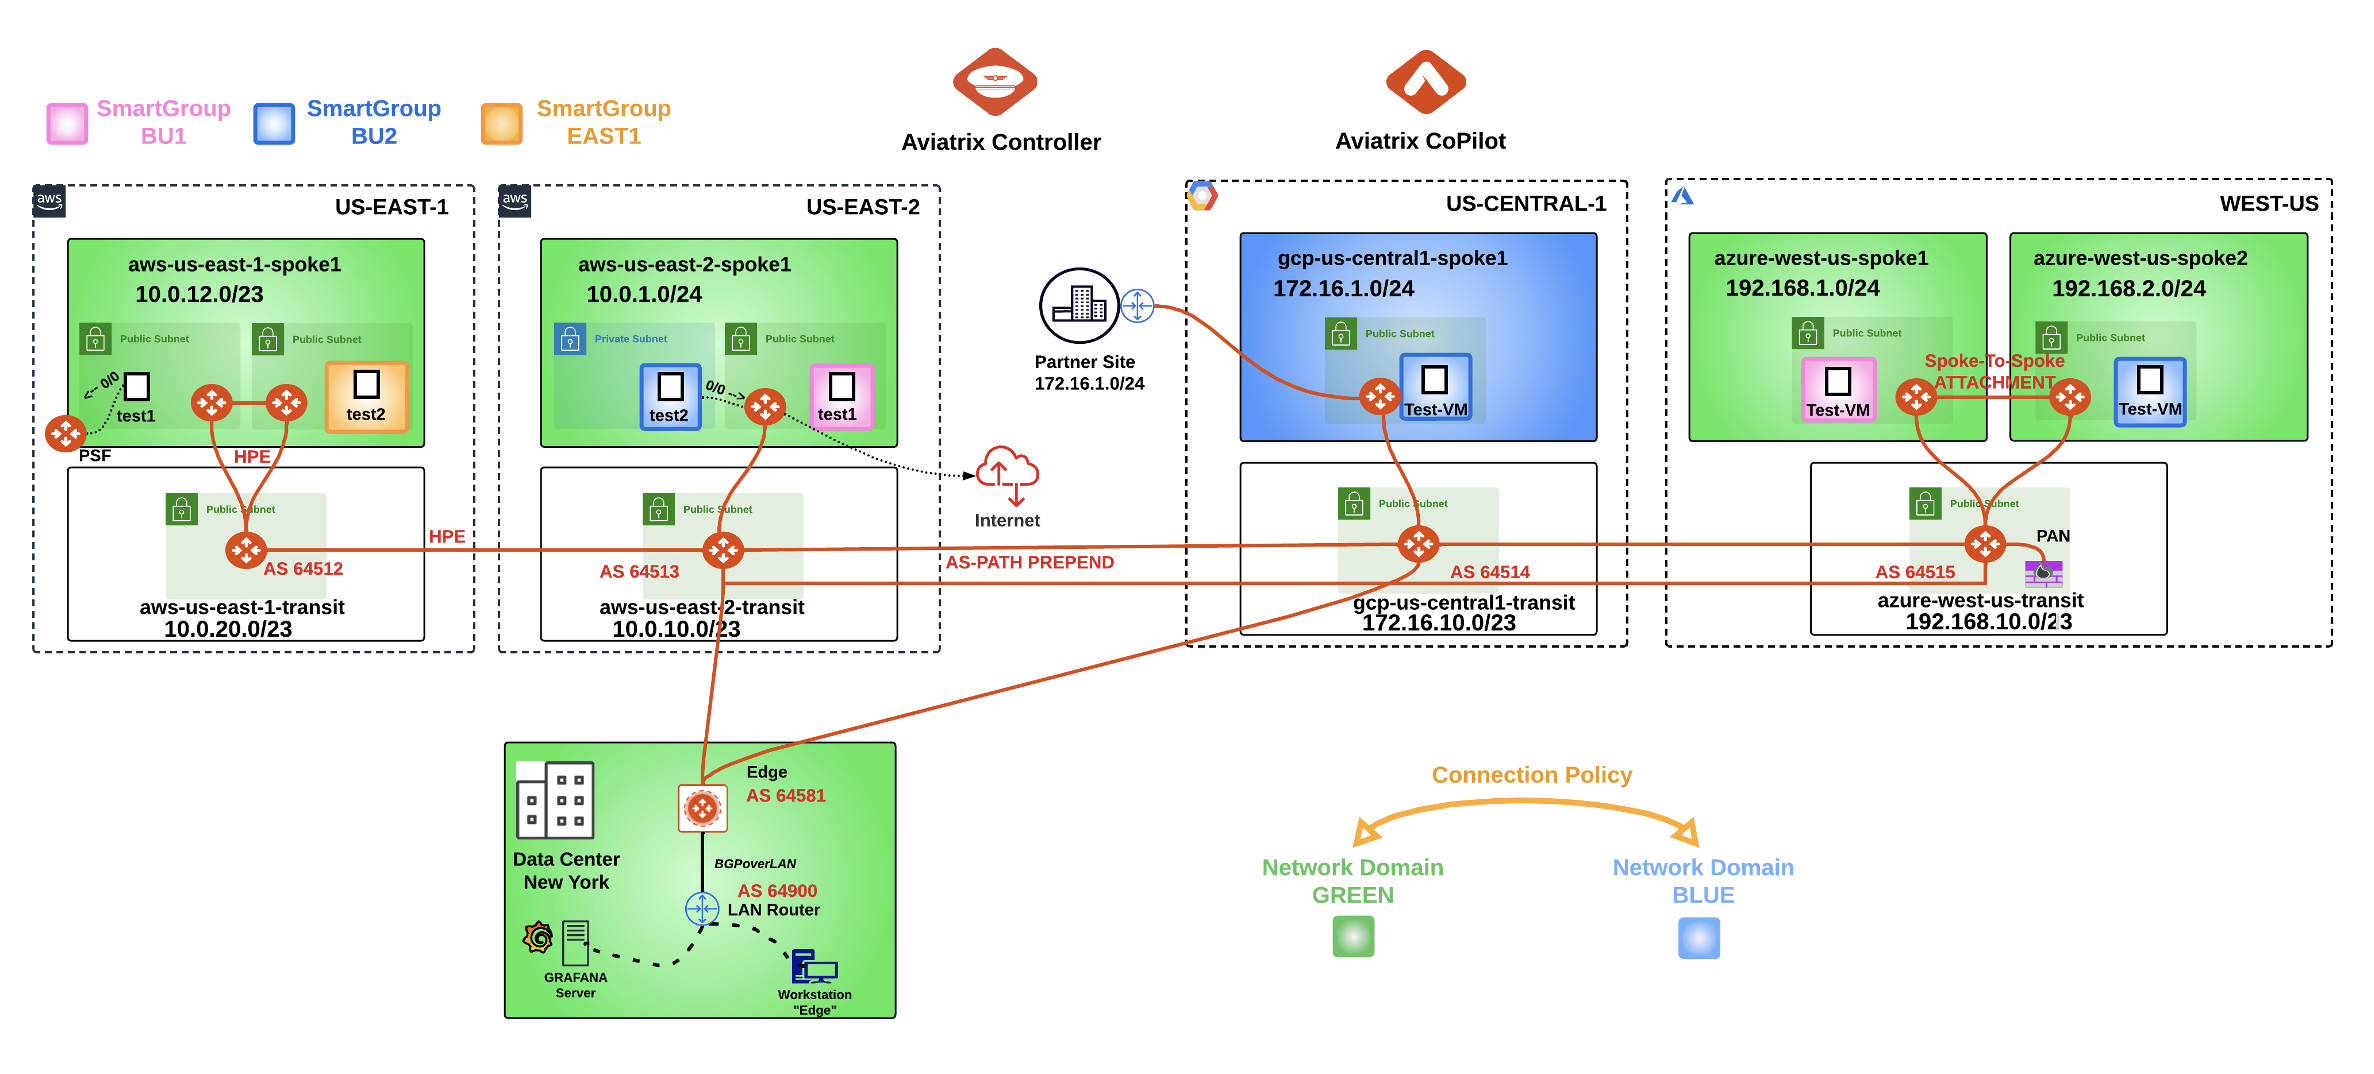
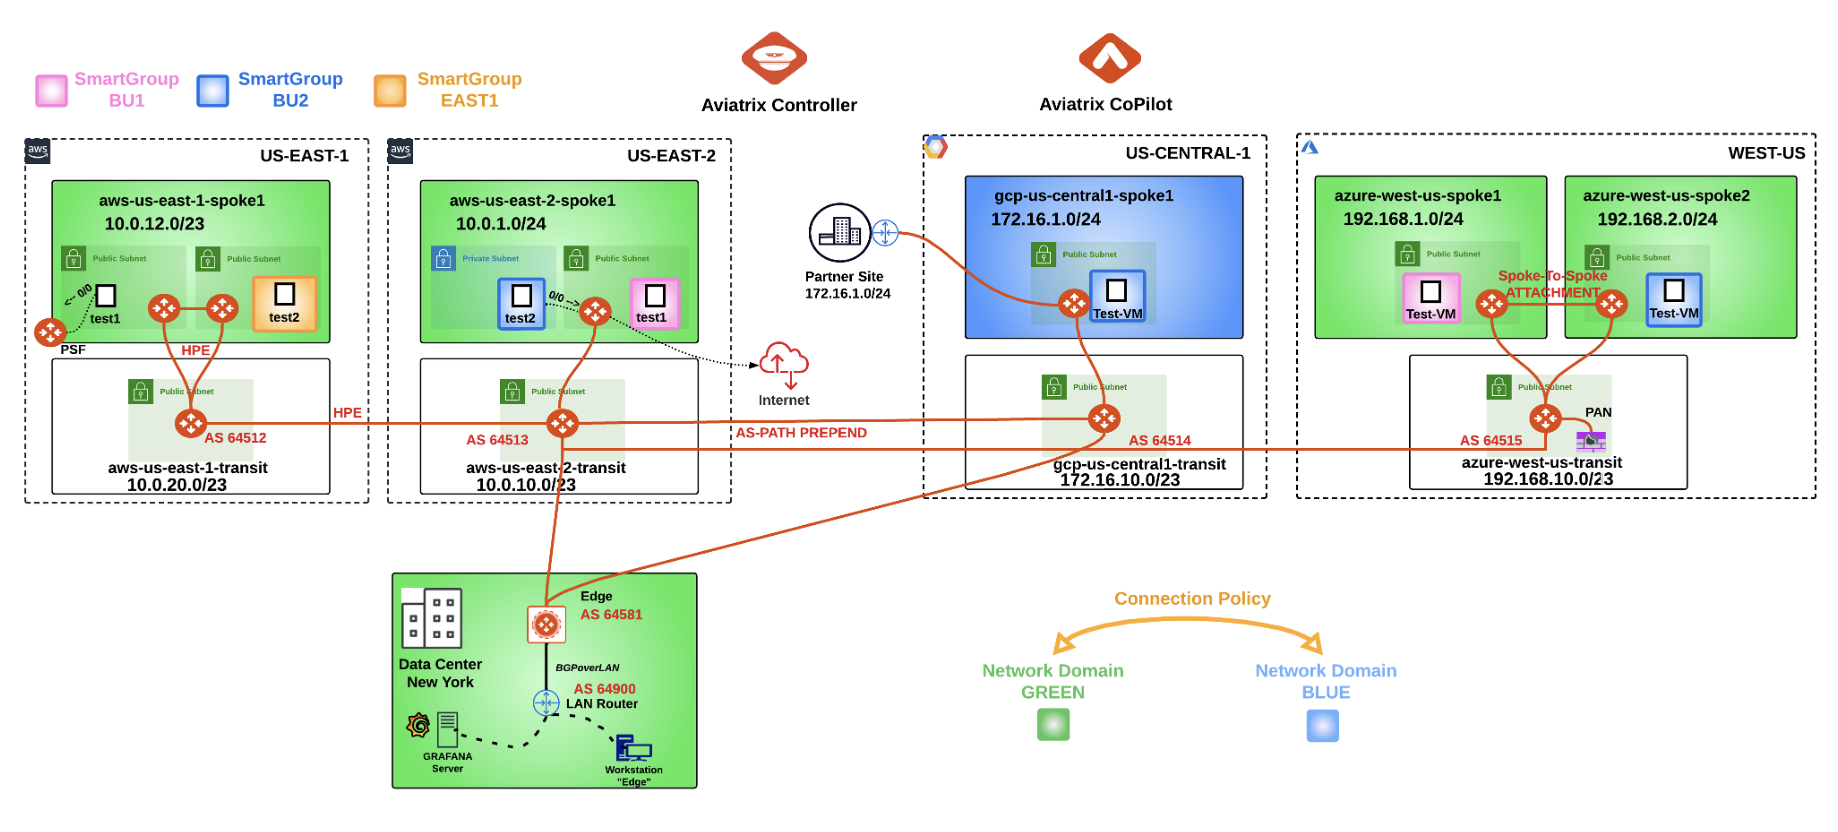
update for pro

diff --git a/ace_pro/docs/lab11.md b/ace_pro/docs/lab11.md
@@ -1223,6 +1223,35 @@ align: center
 Spoke to Spoke
 ```
 
+## 16. Decommissioning of a peering
+
+Now that MTT is enabled on the **_aws-us-east-2-transit_** Gateway, every other Transit Gateway must have a single peering with the MTT Gateway; therefore the peering between the **_gcp-us-central1-transit_** Gateway and the **_azure-west-us-transit_** Gateway can be removed.
+
+```{figure} images/lab10-spoke2spoke0788.png
+---
+align: center
+---
+Deletion of a peering
+```
+
+Navigate to **CoPilot > Cloud Fabric > Gateways > Transit Gateways**; edit the **_gcp-us-central1-transit_** gateway.
+
+```{figure} images/lab10-spoke2spoke0789.png
+---
+align: center
+---
+Edit the GCP Transit Gateway
+```
+
+In the `"Attach To Transit Gateways"` field, remove the peering with the **_zure-west-us-transit_** Gateway, and then click Save.
+
+```{figure} images/lab10-spoke2spoke0790.png
+---
+align: center
+---
+Deletion of a peering
+```
+
 After completing this lab, the overall topology will appear as follows:
 
 ```{figure} images/lab10-lastdrawing.png
@@ -1230,5 +1259,5 @@ After completing this lab, the overall topology will appear as follows:
 height: 400px
 align: center
 ---
-Full-Blown Aviatrix Solution
+Full-feature Aviatrix solution
 ```
